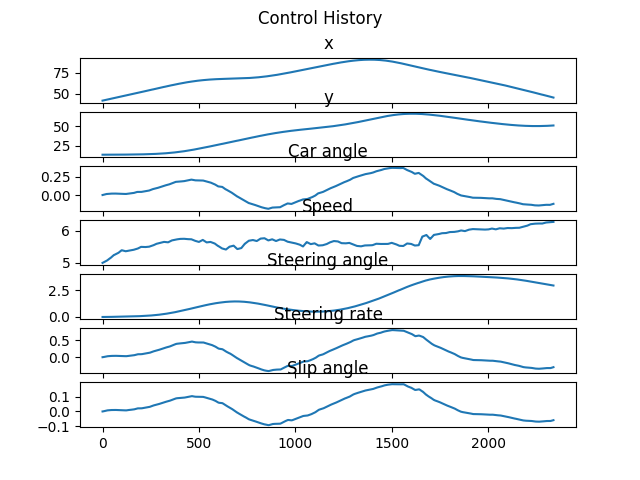
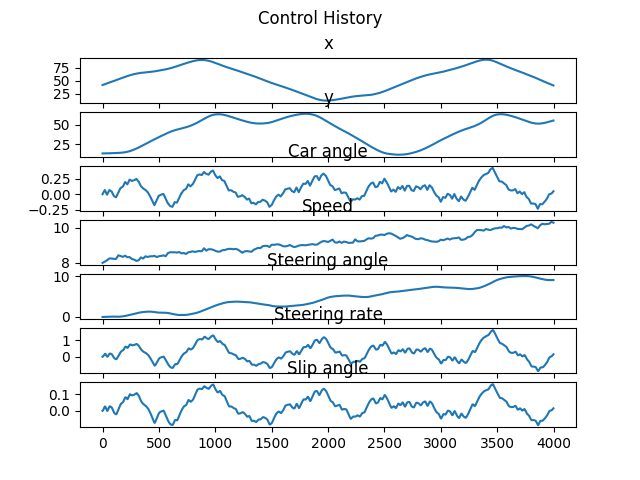
run multiple experiments

diff --git a/multi_step_mpc.py b/multi_step_mpc.py
@@ -7,79 +7,83 @@ from constants import *
 import matplotlib.pyplot as plt
 
 
-track = Track()
-car = Car(track)
-car_controller = CarController(car)
-waypoint_index = 1
-last_control_input = [0,0]
 
 
-
-for i in range(200):
-
-    next_control_sequence = car_controller.control_step()
-    chosen_trajectory = car_controller.simulate_trajectory(next_control_sequence)
-
-    # Comment this out for speedup
-    car_controller.draw_simulated_history(waypoint_index,chosen_trajectory)
-
-    #Do the first step of the best control sequence
-    car.step(next_control_sequence[0])
-    #Update car state
-    car_controller.set_state(car.state)
+def run_simulation(number_of_steps):
 
 
-    print(i)
-    car.save_history()
+    track = Track()
+    car = Car(track)
+    car_controller = CarController(car)
+    waypoint_index = 1
+    last_control_input = [0,0]
+            
+    for i in range(number_of_steps):
+
+        next_control_sequence = car_controller.control_step()
+        chosen_trajectory, cost = car_controller.simulate_trajectory(next_control_sequence)
+
+        #Do the first step of the best control sequence
+        car.step(next_control_sequence[0])
+        #Update car state
+        car_controller.set_state(car.state)
+
+
+        print(i)
+        # Comment this out for speedup
+        # car_controller.draw_simulated_history(waypoint_index,chosen_trajectory)
+        # car.save_history()
+        # car.draw_history()
+
+    
+
     car.draw_history()
+    car.save_history()
 
-   
-
-car.draw_history()
-car.save_history()
-
-# print(history)
-# exit()
+    # print(history)
+    # exit()
 
 
 
-'''
-This is only for getting a feeling of how hight the different costs are... can be ignored
-'''
+    '''
+    This is only for getting a feeling of how hight the different costs are... can be ignored
+    '''
 
-#Show cost distributions
-collect_distance_costs = car_controller.collect_distance_costs
-collect_speed_costs = car_controller.collect_speed_costs
-collect_progress_costs = car_controller.collect_progress_costs
+    #Show cost distributions
+    # collect_distance_costs = car_controller.collect_distance_costs
+    # collect_speed_costs = car_controller.collect_speed_costs
+    # collect_progress_costs = car_controller.collect_progress_costs
 
-mean_distance_cost = np.array(collect_distance_costs).mean()
-mean_speed_cost = np.array(collect_speed_costs).mean()
-mean_progress_cost = np.array(collect_progress_costs).mean()
+    # mean_distance_cost = np.array(collect_distance_costs).mean()
+    # mean_speed_cost = np.array(collect_speed_costs).mean()
+    # mean_progress_cost = np.array(collect_progress_costs).mean()
 
-print("Mean distance cost: " ,mean_distance_cost)
-print("Mean speed cost: " ,mean_speed_cost)
-print("Mean progress cost: " ,mean_progress_cost)
+    # print("Mean distance cost: " ,mean_distance_cost)
+    # print("Mean speed cost: " ,mean_speed_cost)
+    # print("Mean progress cost: " ,mean_progress_cost)
 
-plt.clf()
-fig, axs = plt.subplots(3, 1, sharey=True, tight_layout=False)
-fig.set_size_inches(12, 16)
+    # plt.clf()
+    # fig, axs = plt.subplots(3, 1, sharey=True, tight_layout=False)
+    # fig.set_size_inches(12, 16)
 
-axs[0].set_title('Distance Cost Distribution')
-axs[0].hist(collect_distance_costs, bins=20)
+    # axs[0].set_title('Distance Cost Distribution')
+    # axs[0].hist(collect_distance_costs, bins=20)
 
-axs[1].set_title('Speed Cost Distribution')
-axs[1].hist(collect_speed_costs, bins=20)
+    # axs[1].set_title('Speed Cost Distribution')
+    # axs[1].hist(collect_speed_costs, bins=20)
 
-axs[2].set_title('Progress Cost Distribution')
-axs[2].hist(collect_progress_costs, bins=20)
+    # axs[2].set_title('Progress Cost Distribution')
+    # axs[2].hist(collect_progress_costs, bins=20)
 
 
-plt.savefig("cost_distributiuon.png")
+    # plt.savefig("cost_distributiuon.png")
 
 
 
 
 
+if __name__ == '__main__':
+    run_simulation(10)
 
  
 

diff --git a/car.py b/car.py
@@ -17,9 +17,13 @@ import matplotlib.pyplot as plt
 import numpy as np
 import shapely.geometry as geom
 import math
-
+import csv  
+from datetime import datetime
 
 from scipy.integrate import odeint
+
+
+PATH_TO_EXPERIMENT_RECORDINGS = "./ExperimentRecordings"
 
 '''
 Represents the "real car", calculated by the l2race server
@@ -31,7 +35,7 @@ class Car:
 
         self.parameters = parameters_vehicle2()
         # self.state = init_ks([0, 0, 0, 20, 0])
-        self.state = init_st([initial_position[0], initial_position[1], 0, 5, 0, 0,0])
+        self.state = init_st([initial_position[0], initial_position[1], 0, 8, 0, 0,0])
         # self.state = init_std([initial_position[0], initial_position[1], 0, 7, 0, 0,0], p= self.parameters)
         # self.state = init_mb([419, 136, 0, 5, 0, 0,0,0, 0,0,0, 0,0,0, 0,0,0, 0,0,0, 0,0,0, 0,0,0, 0,0,0, 0,0,0, 0,0,0, 0,0], self.parameters)
         self.time = 0 #TODO:
@@ -71,13 +75,42 @@ class Car:
 
 
     def save_history(self):
-        # print("Saving history...")
+        print("Saving history...")
+        
+        
         control_history = np.array(self.control_history)
-        np.savetxt("control_history.csv", control_history, delimiter=",")
+        np.savetxt("ExperimentRecordings/control_history.csv", control_history, delimiter=",", header="x1,x2,x3,x4,x5,x6,x7")
 
+        header=["time", "x1", "x2", "x3", "x4", "x5", "x6", "x7", "u1", "u2"]
         state_history = np.array(self.state_history)
         state_history = state_history.reshape(state_history.shape[0] * state_history.shape[1],7)
-        np.savetxt("car_state_history.csv", state_history, delimiter=",")
+        np.savetxt("ExperimentRecordings/car_state_history.csv", state_history, delimiter=",", header="x1,x2,x3,x4,x5,x6,x7")
+
+
+        cut_state_history = state_history[0::20]
+        now = datetime.now()
+        now = now.strftime("%Y-%m-%d %H:%M:%S")
+        print("Today's date:", now)
+        
+
+        with open('ExperimentRecordings/history-'+now+'.csv', 'w', encoding='UTF8') as f:
+            writer = csv.writer(f)
+
+
+            #Meta data
+            f.write("# Datetime: {} \n".format(now))
+            f.write("# Track: {} \n".format( self.track.track_name))
+            f.write("# Saving: {}\n".format("0.2s"))
+            f.write("# Model: {}\n".format("MPPI, Ground truth model"))
+
+            writer.writerow(header)
+            time = 0
+            for i in range(len(cut_state_history)):
+                state_and_control = np.append(cut_state_history[i],control_history[i])
+                time_state_and_control = np.append(time, state_and_control)
+                writer.writerow(time_state_and_control)
+                time = round(time+0.2, 2)
+
 
 
 
@@ -108,5 +141,8 @@ class Car:
         colorbar = plt.colorbar(scatter)
         colorbar.set_label('speed')
 
-        plt.savefig('history.png')
+        now = datetime.now()
+        now = now.strftime("%Y-%m-%d %H:%M:%S")
+
+        plt.savefig('ExperimentRecordings/history-{}.png'.format(now))
     

diff --git a/constants.py b/constants.py
@@ -1,4 +1,4 @@
-
+import numpy as np
 
 #track waypointsway
 # 
@@ -68,3 +68,39 @@ u_8 = look_forward * [[0.2, 1]]
 u_9 = look_forward * [[-0.2, 1]]
 
 u_dist = [u_0, u_1, u_2, u_3, u_4, u_5, u_6, u_7, u_8, u_9]
+
+
+
+
+initial_sequence = np.array([
+    [ 0.11674958,  0.57661677],
+    [ 0.28156428,  0.43269387],
+    [-0.67778111,  0.28484326],
+    [ 0.89245516,  0.53690129],
+    [-0.20822265,  0.10522629],
+    [-0.52056223, -0.1064071 ],
+    [-0.2426616,  -0.10943687],
+    [ 0.31678461,  0.9571808 ],
+    [ 0.40706421, -0.07085756],
+    [ 0.12149811, -0.24084676],
+    [ 0.39639084,  0.36666362],
+    [-0.16241285, -0.42397627],
+    [ 0.43261248, -0.15608762],
+    [-0.0886653,  -0.2921976 ],
+    [ 0.28757025, -0.31614497],
+    [ 0.05742045, -0.3708755 ],
+    [-0.03230496,  0.15441815],
+    [-0.40825223,  0.45683355],
+    [ 0.02843457, -0.47578741],
+    [-0.20366861,  0.05424113],
+    [ 0.13218539, -0.13742034],
+    [-0.14649646, -0.0899649 ],
+    [-0.59060298,  0.10510308],
+    [-1.03772924,  0.1387558 ],
+    [ 0.45497139, -0.27333621],
+    [ 0.99109847,  0.3484606 ],
+    [-0.23562969, -0.12905109],
+    [ 0.19798499, -0.01300876],
+    [-0.22277422, -0.12253193],
+    [-0.37119724,  0.44947388]
+])

diff --git a/plot.py b/plot.py
@@ -6,7 +6,7 @@ import math
 from numpy import genfromtxt
 
 
-control_history = genfromtxt('control_history.csv', delimiter=',')
+control_history = genfromtxt('ExperimentRecordings/control_history.csv', delimiter=',')
 print(control_history.shape)
 
 fig, axs = plt.subplots(2)
@@ -19,7 +19,7 @@ axs[1].plot(control_history[:,1])
 plt.savefig("control_histry.png")
 plt.clf()
 
-state_history = genfromtxt('car_state_history.csv', delimiter=',')
+state_history = genfromtxt('ExperimentRecordings/car_state_history.csv', delimiter=',')
 print(state_history.shape)
 
 fig, axs = plt.subplots(7)

diff --git a/track.py b/track.py
@@ -20,6 +20,7 @@ class Track:
         # self.waypoints_y = 0.1 *  np.array(oval_points_y)
         self.waypoints_x = M_TO_PIXEL * np.array(track_2_points_x)
         self.waypoints_y = M_TO_PIXEL *  np.array(track_2_points_y)
+        self.track_name = "Track 2"
         self.waypoints = [[self.waypoints_x[i], self.waypoints_y[i]] for i in range(len(self.waypoints_x))]
         self.initial_position = self.waypoints[0]
 

diff --git a/run_multiple_simulations.py b/run_multiple_simulations.py
@@ -1,0 +1,13 @@
+from multi_step_mpc import *
+
+
+NUMBER_OF_SIMULATIONS = 2
+NUMBER_OF_STEPS_PER_SIMULATION = 100
+
+
+for i in range(NUMBER_OF_SIMULATIONS):
+    print("Running Simulation {}".format(i))
+    run_simulation(NUMBER_OF_STEPS_PER_SIMULATION)
+
+
+print("Experiments done.")
